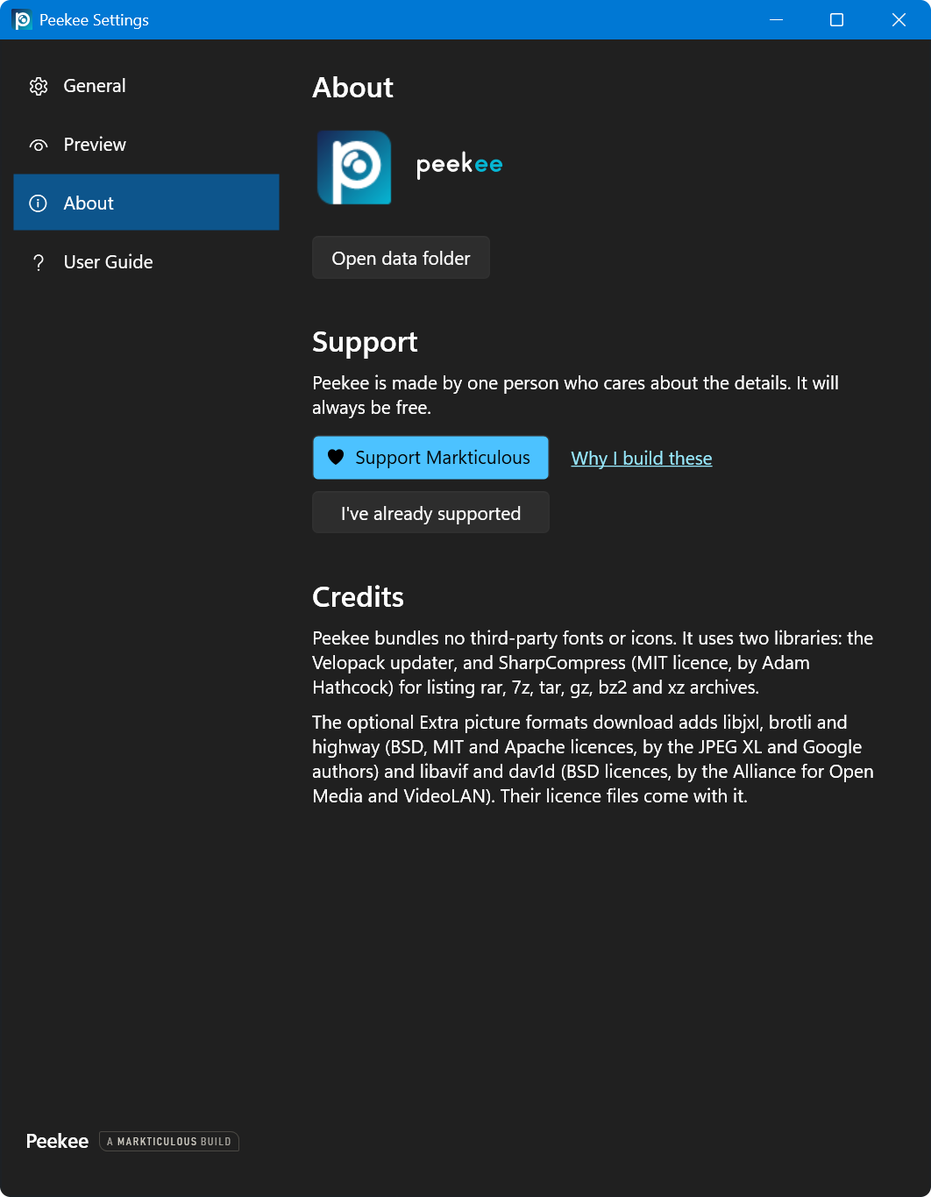
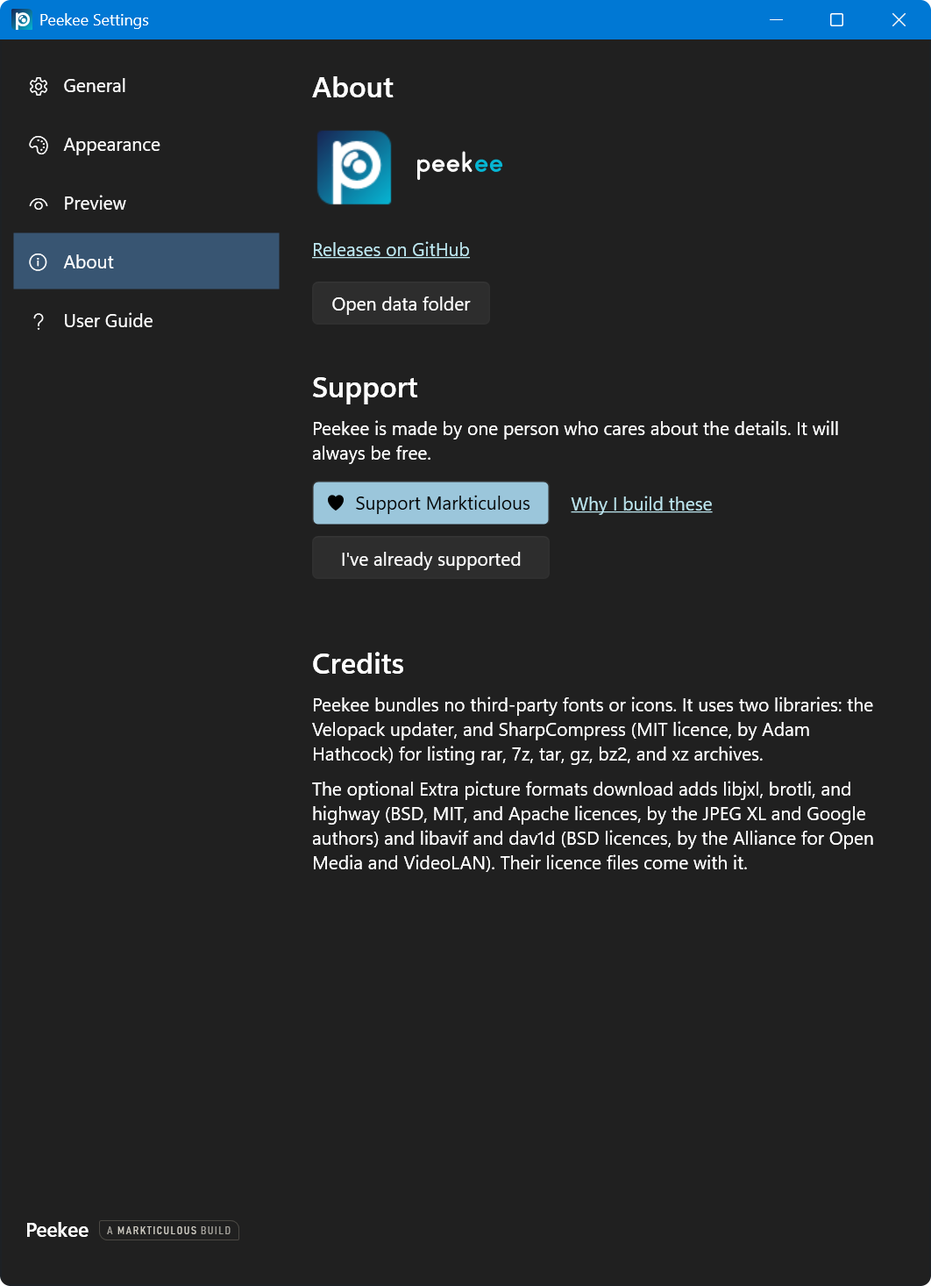
chore(guides): match the User Guides to the latest releases

diff --git a/guides/peekee/index.html b/guides/peekee/index.html
@@ -4,7 +4,7 @@
 <meta charset="utf-8">
 <meta name="viewport" content="width=device-width, initial-scale=1">
 <title>Peekee — User Guide</title>
-<link rel="icon" href="images/peekee-32.png">
+<link rel="icon" href="images/peekee-64.png">
 <meta name="color-scheme" content="light dark">
 <style>
 /* One file plus its pictures. No fonts to fetch, nothing that needs a
@@ -69,7 +69,7 @@ body {
   letter-spacing: .34em; text-transform: uppercase;
   color: var(--mute);
 }
-.wordmark .logo { flex: none; width: 20px; height: 20px; margin-right: -4px; }
+.wordmark .logo { flex: none; width: 28px; height: 28px; margin-right: -2px; }
 .wordmark-mark { flex: none; height: 24px; margin-top: 7px; width: auto; color: var(--ink); overflow: visible; }
 
 /* The Markticulous byline plate: hollow, hairline edge, two corners cropped square. */
@@ -78,12 +78,18 @@ body {
   display: inline-flex; align-items: center; gap: 4px;
   padding: 4px 8px;
   border-radius: 1px 6px 1px 6px;
-  box-shadow: inset 0 0 0 1px var(--rule);
+  box-shadow: inset 0 0 0 var(--hair) var(--rule);
   font-family: "Oswald", "Arial Narrow", "Helvetica Neue", sans-serif;
   font-size: 9px; font-weight: 500; letter-spacing: .12em; line-height: 1;
   white-space: nowrap; text-transform: uppercase;
 }
 .byline-by, .byline-suffix { opacity: .6; }
+/* The plate's edge is one screen pixel at every display scale (rule 20). */
+:root { --hair: 1px; }
+@media (min-resolution: 1.25dppx) { :root { --hair: .8px; } }
+@media (min-resolution: 1.5dppx) { :root { --hair: calc(2px / 3); } }
+@media (min-resolution: 1.75dppx) { :root { --hair: calc(4px / 7); } }
+@media (min-resolution: 2dppx) { :root { --hair: .5px; } }
 
 .ver {
   flex: none;
@@ -370,7 +376,7 @@ figcaption { margin-top: 10px; font-family: var(--sans); font-size: 13px; color:
 <body id="top">
 
 <p class="wordmark">
-  <img class="logo" src="images/peekee-32.png" alt="">
+  <img class="logo" src="images/peekee-64.png" alt="">
   <!-- The drawn Peekee wordmark (assets/logo/peekee-wordmark-*.svg), inline so "peek" follows the page's light or dark ink;
        "ee" keeps the brand cyan. The viewBox keeps the tail of the p; the margin keeps the letters where Backee's sit. -->
   <svg class="wordmark-mark" viewBox="0 15.9 129.5 44.2" role="img" aria-label="Peekee">
@@ -441,10 +447,10 @@ figcaption { margin-top: 10px; font-family: var(--sans); font-size: 13px; color:
         <dd>Opens the preview of the selected file, and closes it again. If nothing is selected, or Peekee cannot preview where you are, the key goes to the window as usual. On a shortcut (<code>.lnk</code>) it shows the file or folder the shortcut points to; a shortcut to a program shows its own card instead. You can choose <kbd>Ctrl</kbd> + <kbd>Space</kbd> or <kbd>Shift</kbd> + <kbd>Space</kbd> instead in <a href="#settings">Settings</a>.</dd>
         <dt>Esc</dt>
         <dd>Closes the preview. This works whichever key you chose to open it.</dd>
-        <dt>Arrow keys, Home, End, Page Up and Page Down</dt>
+        <dt>Arrow keys, Home, End, Page Up, and Page Down</dt>
         <dd>Move the selection in the window behind, as they always do, and the preview follows to the new file. You do not have to close it first.</dd>
         <dt>Left and Right on a file with pages</dt>
-        <dd>When the preview shows a file with several pages, such as a TIFF, an Illustrator file or a PDF drawn by Windows, <kbd>Right</kbd> turns to the next page and <kbd>Left</kbd> to the previous one. On the last page, <kbd>Right</kbd> goes back to the window behind, so in an Icons view it moves on to the next file; on the first page, <kbd>Left</kbd> does the same. PDFs shown by Edge and Office files shown by Office keep their own scrolling: use the mouse wheel there.</dd>
+        <dd>When the preview shows a file with several pages, such as a TIFF, an Illustrator file, or a PDF drawn by Windows, <kbd>Right</kbd> turns to the next page and <kbd>Left</kbd> to the previous one. On the last page, <kbd>Right</kbd> goes back to the window behind, so in an Icons view it moves on to the next file; on the first page, <kbd>Left</kbd> does the same. PDFs shown by Edge and Office files shown by Office keep their own scrolling: use the mouse wheel there.</dd>
         <dt>Several files selected</dt>
         <dd>The preview shows the focused file, and the header says how many are selected.</dd>
         <dt>Dragging an edge</dt>
@@ -458,22 +464,22 @@ figcaption { margin-top: 10px; font-family: var(--sans); font-size: 13px; color:
         <thead><tr><th>Button</th><th>What it does</th></tr></thead>
         <tbody>
           <tr><td>Open</td><td>Opens the file in the program Windows uses for it.</td></tr>
-          <tr><td>Pin</td><td>Not available yet. It is greyed out.</td></tr>
+          <tr><td>Pin</td><td>Not available yet. It is <span data-sp="grayed">grayed</span> out.</td></tr>
           <tr><td>Copy</td><td>Copies what you are looking at. A text file (up to the largest size set in Settings) is copied as text, a picture as a picture (a PDF or multi-page TIFF copies the page showing), and anything else, including a folder, as the file itself, so Paste in File Explorer copies it.</td></tr>
           <tr><td>Copy path</td><td>Copies the full path of the file as text.</td></tr>
           <tr><td>Close</td><td>Closes the preview.</td></tr>
           <tr><td>Previous page and Next page</td><td>Appear only for files with pages, such as a PDF or a TIFF with several pages. <kbd>Left</kbd> and <kbd>Right</kbd> do the same.</td></tr>
-          <tr><td>Fit page, Fit width, 100 percent, Zoom out and Zoom in</td><td>Appear for a PDF drawn by Windows. Zoom steps are 25, 50, 75, 100, 125, 150, 200, 300 and 400 percent. A button that would change nothing is greyed out.</td></tr>
+          <tr><td>Fit page, Fit width, 100 percent, Zoom out, and Zoom in</td><td>Appear for a PDF drawn by Windows. Zoom steps are 25, 50, 75, 100, 125, 150, 200, 300, and 400 percent. A button that would change nothing is <span data-sp="grayed">grayed</span> out.</td></tr>
         </tbody>
       </table>
-      <p>Open, Copy and Copy path are greyed out when no file is showing, and Copy is also greyed out for an item that could not be read.</p>
+      <p>Open, Copy, and Copy path are <span data-sp="grayed">grayed</span> out when no file is showing, and Copy is also <span data-sp="grayed">grayed</span> out for an item that could not be read.</p>
     </section>
 
     <section id="where">
       <h2 class="sec"><span class="n">03</span>Where Peekee works</h2>
       <dl class="defs">
         <dt>File Explorer</dt>
-        <dd>Every view: details, list, icons and tiles. Peekee reads the selection from Explorer and never changes anything.</dd>
+        <dd>Every view: details, list, icons, and tiles. Peekee reads the selection from Explorer and never changes anything.</dd>
         <dt>The Desktop</dt>
         <dd>Select an icon on the Desktop and press the key.</dd>
         <dt>Open and Save dialogs</dt>
@@ -490,33 +496,33 @@ figcaption { margin-top: 10px; font-family: var(--sans); font-size: 13px; color:
       <p>A preview opens at once and reads the file without changing it.</p>
       <dl class="defs">
         <dt>Images</dt>
-        <dd>PNG, JPG, GIF, BMP, WebP, TIFF and ICO, plus HEIC and AVIF where Windows has the codec installed. Amiga IFF pictures (<code>.iff</code>, <code>.ilbm</code>, <code>.lbm</code>, <code>.ham6</code>, <code>.ham8</code>, <code>.acbm</code>, <code>.rgb8</code>, <code>.rgbn</code>, including HAM and EHB, pictures with a palette for every line, Atari ST pictures, the true-colour RGB8 and RGBN kinds, and the PC <code>PBM</code> kind; a file that is cut short shows the part that is there) are drawn by Peekee itself; the footer says how many colours they use. Their pixel shape is not corrected, so a low-resolution Amiga picture can look narrower than it did on the Amiga. Photoshop files (<code>.psd</code> and the large-document <code>.psb</code>) show the merged picture saved in the file, in RGB, CMYK, gray, indexed or black and white at 8 or 16 bits; layers are not shown. If the file was saved without that picture, is over 16 megapixels or is in an unsupported mode, Peekee shows the small preview picture stored in the file when there is one, and the footer says "thumbnail only". A GIF plays, and the footer says how many frames it has, how fast it runs and how often it plays. A TIFF with several pages shows one page at a time, with page buttons in the header. The wheel zooms, dragging pans, and a double click fits the image to the window again. In <a href="#settings">Settings</a> you choose whether images open fitted to the window or at 100 percent, and what shows behind them.</dd>
+        <dd>PNG, JPG, GIF, BMP, WebP, TIFF, and ICO, plus HEIC and AVIF where Windows has the codec installed. Amiga IFF pictures (<code>.iff</code>, <code>.ilbm</code>, <code>.lbm</code>, <code>.ham6</code>, <code>.ham8</code>, <code>.acbm</code>, <code>.rgb8</code>, <code>.rgbn</code>, including HAM and EHB, pictures with a palette for every line, Atari ST pictures, the true-<span data-sp="color">color</span> RGB8 and RGBN kinds, and the PC <code>PBM</code> kind; a file that is cut short shows the part that is there) are drawn by Peekee itself; the footer says how many <span data-sp="colors">colors</span> they use. Their pixel shape is not corrected, so a low-resolution Amiga picture can look narrower than it did on the Amiga. Photoshop files (<code>.psd</code> and the large-document <code>.psb</code>) show the merged picture saved in the file, in RGB, CMYK, <span data-sp="gray">gray</span>, indexed, or black and white at 8 or 16 bits; layers are not shown. If the file was saved without that picture, is over 16 megapixels, or is in an unsupported mode, Peekee shows the small preview picture stored in the file when there is one, and the footer says "thumbnail only". A GIF plays, and the footer says how many frames it has, how fast it runs, and how often it plays. A TIFF with several pages shows one page at a time, with page buttons in the header. The wheel zooms, dragging pans, and a double click fits the image to the window again. In <a href="#settings">Settings</a> you choose whether images open fitted to the window or at 100 percent, and what shows behind them.</dd>
         <dt>Text and code</dt>
-        <dd>Plain text, logs, configuration files and source code, in a monospace font with line numbers. Long lines scroll sideways instead of wrapping. A file larger than the limit in Settings (2 MB to start with) shows its first part, with a note in the footer.</dd>
+        <dd>Plain text, logs, configuration files, and source code, in a monospace font with line numbers. Long lines scroll sideways instead of wrapping. A file larger than the limit in Settings (2 MB to start with) shows its first part, with a note in the footer.</dd>
         <dt>CSV and TSV</dt>
         <dd>A table of the first 5,000 rows. The first row becomes the column headers when the file seems to have one. Otherwise the columns are lettered.</dd>
         <dt>JSON</dt>
         <dd>Laid out with indents so it is easy to read. A file that is not valid JSON shows as plain text.</dd>
         <dt>Markdown</dt>
-        <dd>Shown as a formatted document with headings, lists, tables, code and the images that sit beside the file. Links are drawn as links but cannot be clicked.</dd>
+        <dd>Shown as a formatted document with headings, lists, tables, code, and the images that sit beside the file. Links are drawn as links but cannot be clicked.</dd>
         <dt>SVG</dt>
         <dd>Drawn and fitted to the window. Turn the mouse wheel to zoom about the pointer, drag to move around when zoomed in, and double click or press 0 to fit the window again. A drawing that uses features Peekee does not support, such as CSS classes, may look different from the way a browser shows it.</dd>
         <dt>Fonts</dt>
-        <dd>TTF, OTF and TTC files show as a type specimen: the family and style name, the alphabet, the digits and a sentence at three sizes. The font is not installed.</dd>
+        <dd>TTF, OTF, and TTC files show as a type specimen: the family and style name, the alphabet, the digits, and a sentence at three sizes. The font is not installed.</dd>
         <dt>Folders</dt>
         <dd>How many items are inside and how big they are in all (counted in the background), with the five newest items.</dd>
         <dt>Archives</dt>
-        <dd>The contents are listed without unpacking anything: zip, RAR, 7z, ISO, tar (also tar.gz, tgz, tar.bz2, tbz2, tar.xz and txz), gz, bz2, xz, CAB and LHA (lzh, lha). Folders inside show as a tree: click a folder row to open or close it. Name, Size and Modified have their own columns. An archive with a password, or one that is damaged, shows the information card instead.</dd>
+        <dd>The contents are listed without unpacking anything: zip, RAR, 7z, ISO, tar (also tar.gz, tgz, tar.bz2, tbz2, tar.xz, and txz), gz, bz2, xz, CAB, and LHA (lzh, lha). Folders inside show as a tree: click a folder row to open or close it. Name, Size, and Modified have their own columns. An archive with a password, or one that is damaged, shows the information card instead.</dd>
         <dt>WordPerfect</dt>
-        <dd>WordPerfect documents (<code>.wpd</code>, <code>.wp</code>, <code>.wp5</code>, <code>.wp6</code> and <code>.wp7</code>, from WordPerfect 5 and later) show their text only, in the same plain view as a text file, and the footer gives the word count. Fonts, layout, tables, pictures and footnotes are not shown, and a few special characters may appear as a question mark. A file that is password protected, or from which no text can be read, shows the information card.</dd>
+        <dd>WordPerfect documents (<code>.wpd</code>, <code>.wp</code>, <code>.wp5</code>, <code>.wp6</code>, and <code>.wp7</code>, from WordPerfect 5 and later) show their text only, in the same plain view as a text file, and the footer gives the word count. Fonts, layout, tables, pictures, and footnotes are not shown, and a few special characters may appear as a question mark. A file that is password protected, or from which no text can be read, shows the information card.</dd>
         <dt>Adobe Illustrator</dt>
         <dd>An <code>.ai</code> or <code>.ait</code> file saved with the PDF compatible option (the default for many years) shows as a PDF does, one page at a time, with the page buttons and zoom buttons. Peekee always uses the Windows PDF renderer for these, never the Edge previewer. An older file saved without that option shows the information card.</dd>
         <dt>PDF</dt>
-        <dd>One page at a time. Use the mouse wheel or the arrow buttons in the header to change page. In the pages drawn by Windows, the header also has Fit page (the default), Fit width, 100 percent, Zoom out and Zoom in, and the footer readout shows the page and the zoom, for example "Page 2 of 9 · 125%". With the default setting, <strong>Interactive</strong>, Peekee tries three ways in this order: the Microsoft Edge PDF previewer, another PDF previewer you have installed, and the PDF renderer built into Windows. With <strong>As images</strong> it uses the Windows renderer at once, which is faster and lighter but has no links, forms or text selection. Hold <kbd>Ctrl</kbd> and turn the wheel to zoom the built-in renderer, and double-click to return to the whole page.</dd>
-        <dt>Word, Excel, PowerPoint and email</dt>
-        <dd>These show through the preview component that Windows or Office installs, the same one File Explorer uses in its preview pane. Peekee bundles nothing for them. If no component is installed for a type, you get the information card. A file that came from the internet is not given to these components, and a PDF from the internet is drawn by the Windows renderer, until you right-click the file, choose Properties and tick Unblock.</dd>
+        <dd>One page at a time. Use the mouse wheel or the arrow buttons in the header to change page. In the pages drawn by Windows, the header also has Fit page (the default), Fit width, 100 percent, Zoom out, and Zoom in, and the footer readout shows the page and the zoom, for example "Page 2 of 9 · 125%". With the default setting, <strong>Interactive</strong>, Peekee tries three ways in this order: the Microsoft Edge PDF previewer, another PDF previewer you have installed, and the PDF renderer built into Windows. With <strong>As images</strong> it uses the Windows renderer at once, which is faster and lighter but has no links, forms, or text selection. Hold <kbd>Ctrl</kbd> and turn the wheel to zoom the built-in renderer, and double-click to return to the whole page.</dd>
+        <dt>Word, Excel, PowerPoint, and email</dt>
+        <dd>These show through the preview component that Windows or Office installs, the same one File Explorer uses in its preview pane. Peekee bundles nothing for them. If no component is installed for a type, you get the information card. A file that came from the internet is not given to these components, and a PDF from the internet is drawn by the Windows renderer, until you right-click the file, choose Properties, and tick Unblock.</dd>
         <dt>Anything else</dt>
-        <dd>The information card: the name, type, size and date of the file.</dd>
+        <dd>The information card: the name, type, size, and date of the file.</dd>
       </dl>
     </section>
 
@@ -525,9 +531,11 @@ figcaption { margin-top: 10px; font-family: var(--sans); font-size: 13px; color:
       <p>Open Settings from the tray menu. Changes apply at once. There is no Save button. The list on the left shows <strong>Peekee</strong> with the Markticulous plate and the version at the bottom, on every page. Click the plate to open the About page.</p>
       <dl class="defs">
         <dt>General</dt>
-        <dd><strong>Open the preview with</strong> is <strong>Space</strong>, <strong>Ctrl + Space</strong> or <strong>Shift + Space</strong>. Space also closes the preview, and Esc always does. If another Markticulous app already uses the combination, a warning under the setting says so; you can still choose it. <strong>Work in Open and Save dialogs</strong> lets Peekee preview inside the file dialogs of other programs. <strong>Start with Windows</strong> opens Peekee in the tray when you sign in. <strong>Check for updates automatically</strong> lets Peekee look for a newer version (see <a href="#privacy">Your privacy</a>), and <strong>Check now</strong> looks straight away. <strong>Restart to update</strong> is greyed out until an update has been downloaded.</dd>
+        <dd><strong>Open the preview with</strong> is <strong>Space</strong>, <strong>Ctrl + Space</strong>, or <strong>Shift + Space</strong>. Space also closes the preview, and Esc always does. If another Markticulous app already uses the combination, a warning under the setting says so; you can still choose it. <strong>Work in Open and Save dialogs</strong> lets Peekee preview inside the file dialogs of other programs. <strong>Start with Windows</strong> opens Peekee in the tray when you sign in. It is on from the first run, and Peekee says so once in a Windows notification. <strong>Check for updates automatically</strong> lets Peekee look for a newer version (see <a href="#privacy">Your privacy</a>), and <strong>Check now</strong> looks straight away. <strong>Restart to update</strong> is <span data-sp="grayed">grayed</span> out until an update has been downloaded.</dd>
+        <dt>Appearance</dt>
+        <dd><strong>Theme</strong> is <strong>Follow Windows</strong> (the default), <strong>Light</strong>, or <strong>Dark</strong>. It applies at once to the preview and to Settings, and Follow Windows changes with Windows while Peekee runs.</dd>
         <dt>Preview</dt>
-        <dd><strong>Window size</strong> sets how much of the screen a preview takes at first, from 30 to 90 percent. <strong>Remember the size I drag the window to</strong> keeps the size you chose by dragging an edge, and <strong>Forget the remembered size</strong> goes back to the setting above. <strong>Show the line at the bottom</strong> turns the footer (type, size, date) on or off. <strong>Images open</strong> is <strong>Fitted to the window</strong> or <strong>At 100 percent</strong>. <strong>Background behind pictures</strong> is the colour that fills the preview behind pictures, SVG files and the pages drawn by the Windows PDF renderer. Choose the window colour (light or dark with the theme, and the default), white, light grey, neutral grey (18 percent), dark grey or black. <strong>Show a checkerboard behind transparent parts</strong> (on by default) puts a checkerboard under the picture itself, so transparent areas show; with it off they show the background colour. An SVG with the checkerboard off and the window colour chosen keeps an automatic light or dark card. <strong>PDF files</strong> is <strong>Interactive</strong> (Edge or an installed previewer first) or <strong>As images</strong> (pages drawn by Windows). Under <strong>Text</strong>, <strong>Font size</strong> and <strong>Largest file shown</strong> (1, 2, 5, 10 or 20 MB) control text and code files. Larger files show their first part only. <strong>Extra picture formats</strong> adds Peekee's own reader for JPEG XL and AVIF pictures, which Windows cannot open without an extension from the Microsoft Store. Click <strong>Add</strong> to download it (1.4 MB); nothing is downloaded until you do. <strong>Remove</strong> deletes it again. Peekee checks the download against a fingerprint it carries and does not use a file that does not match.</dd>
+        <dd><strong>Window size</strong> sets how much of the screen a preview takes at first, from 30 to 90 percent. <strong>Remember the size I drag the window to</strong> keeps the size you chose by dragging an edge, and <strong>Forget the remembered size</strong> goes back to the setting above. <strong>Show the line at the bottom</strong> turns the footer (type, size, date) on or off. <strong>Images open</strong> is <strong>Fitted to the window</strong> or <strong>At 100 percent</strong>. <strong>Background behind pictures</strong> is the <span data-sp="color">color</span> that fills the preview behind pictures, SVG files, and the pages drawn by the Windows PDF renderer. Choose the window <span data-sp="color">color</span> (light or dark with the theme, and the default), white, light <span data-sp="gray">gray</span>, neutral <span data-sp="gray">gray</span> (18 percent), dark <span data-sp="gray">gray</span>, or black. <strong>Show a checkerboard behind transparent parts</strong> (on by default) puts a checkerboard under the picture itself, so transparent areas show; with it off they show the background <span data-sp="color">color</span>. An SVG with the checkerboard off and the window <span data-sp="color">color</span> chosen keeps an automatic light or dark card. <strong>PDF files</strong> is <strong>Interactive</strong> (Edge or an installed previewer first) or <strong>As images</strong> (pages drawn by Windows). Under <strong>Text</strong>, <strong>Font size</strong> and <strong>Largest file shown</strong> (1, 2, 5, 10, or 20 MB) control text and code files. Larger files show their first part only. <strong>Extra picture formats</strong> adds Peekee's own reader for JPEG XL and AVIF pictures, which Windows cannot open without an extension from the Microsoft Store. Click <strong>Add</strong> to download it (1.4 MB); nothing is downloaded until you do. <strong>Remove</strong> deletes it again. Peekee checks the download against a fingerprint it carries and does not use a file that does not match.</dd>
         <dt>About</dt>
         <dd>The Peekee name drawn as a wordmark beside the app icon, the version, <strong>Open data folder</strong> (where Peekee keeps its settings and downloaded extras, <code>%APPDATA%\Peekee</code>), the support section (see <a href="#support">Support Markticulous</a>) and the credits.</dd>
         <dt>User Guide</dt>
@@ -543,8 +551,6 @@ figcaption { margin-top: 10px; font-family: var(--sans); font-size: 13px; color:
         <dd>Appears at the top once an update has been downloaded. Choosing it restarts Peekee on the new version.</dd>
         <dt>Settings&hellip;</dt>
         <dd>Opens the Settings window.</dd>
-        <dt>Start with Windows</dt>
-        <dd>A tick means Peekee starts when you sign in. Click it to turn this on or off. It is the same setting as on the General page.</dd>
         <dt>&hearts; Support Markticulous</dt>
         <dd>Appears only after you have used Peekee for a while (see <a href="#support">Support Markticulous</a>).</dd>
         <dt>Quit</dt>
@@ -576,7 +582,7 @@ figcaption { margin-top: 10px; font-family: var(--sans); font-size: 13px; color:
     <section id="privacy">
       <h2 class="sec"><span class="n">08</span>Your privacy</h2>
       <p>Peekee works only on your PC. It reads the file you select, shows it, and sends nothing about it anywhere. It has no ads and no tracking.</p>
-      <p>The only things that use the internet are ones you start or turn on: the update check, which asks GitHub whether a newer version exists when <strong>Check for updates automatically</strong> is on, and the links to Ko-fi and the support page, which open in your browser only when you click them. If you tell Peekee you have supported Markticulous and use the check, it sends a scrambled version of your email (a hash), and nothing else (see <a href="#support">Support Markticulous</a>).</p>
+      <p>The only things that use the internet are ones you start or turn on: the update check, which asks GitHub whether a newer version exists when <strong>Check for updates automatically</strong> is on, and the links to Ko-fi and the support page, which open in your browser only when you click them. If you tell Peekee you have supported Markticulous and use the check, it sends a scrambled version of your email (a hash), and nothing else (see <a href="#support">Support Markticulous</a>). When the check finds your email, Peekee also writes a small shared file, <code>%LocalAppData%\Markticulous\supporter.json</code>, that holds only that you are a supporter, the date of the check, and the supporter mark you chose (never your email), so that the other Markticulous apps on your PC can thank you without asking again.</p>
     </section>
 
     <section id="support">
@@ -591,7 +597,7 @@ figcaption { margin-top: 10px; font-family: var(--sans); font-size: 13px; color:
     <section id="install">
       <h2 class="sec"><span class="n">10</span>Installing and updating</h2>
       <h3>Installing</h3>
-      <p>Run the Peekee setup. It installs for your own account and does not need an administrator. Peekee then starts and puts its icon in the tray. Turn on <strong>Start with Windows</strong> in Settings if you want it ready every time.</p>
+      <p>Run the Peekee setup. It installs for your own account and does not need an administrator. Peekee then starts and puts its icon in the tray. It also starts with Windows from then on, and a Windows notification says so once; you can turn <strong>Start with Windows</strong> off in Settings.</p>
       <h3>Updates</h3>
       <p>When <strong>Check for updates automatically</strong> is on, Peekee checks about half a minute after it starts, and then once a day. A newer version downloads in the background, and <strong>Restart to update</strong> appears in the tray menu and on the General page. An orange dot shows on the tray icon and beside the button: it breathes while the update downloads and blinks once it is ready. Nothing restarts until you choose it. <strong>Check now</strong> looks straight away. The version you have is on the About page.</p>
       <h3>Uninstalling</h3>
@@ -603,8 +609,8 @@ figcaption { margin-top: 10px; font-family: var(--sans); font-size: 13px; color:
       <dl class="defs">
         <dt>Space does nothing</dt>
         <dd>Check that a file, not empty space, is selected, and that the file list has the keyboard focus: click the file once. Check that Peekee is running (look for its icon in the tray) and that the key in Settings is the one you are pressing. In an Open or Save dialog, make sure <strong>Work in Open and Save dialogs</strong> is on, and see <a href="#where">Where Peekee works</a> about older dialogs.</dd>
-        <dt>I see a card with the name, type and size instead of the file</dt>
-        <dd>Peekee has no way to draw that kind of file. For Word, Excel, PowerPoint and email files it means no preview component is installed for that type. Press the Open button in the header to open the file in its own program.</dd>
+        <dt>I see a card with the name, type, and size instead of the file</dt>
+        <dd>Peekee has no way to draw that kind of file. For Word, Excel, PowerPoint, and email files it means no preview component is installed for that type. Press the Open button in the header to open the file in its own program.</dd>
         <dt>A PDF looks different from one in Edge</dt>
         <dd>If neither the Edge previewer nor another PDF previewer is available, Peekee falls back to the renderer built into Windows. It shows the pages as pictures, one at a time.</dd>
         <dt>A text file is cut short</dt>
@@ -618,21 +624,21 @@ figcaption { margin-top: 10px; font-family: var(--sans); font-size: 13px; color:
 
     <section id="types">
       <h2 class="sec"><span class="n">12</span>File types Peekee can show</h2>
-      <p>Every type Peekee recognises, grouped. Peekee also looks inside a file whose name gives no clue, so a picture or text file with an unusual extension is usually still shown.</p>
+      <p>Every type Peekee <span data-sp="recognizes">recognizes</span>, grouped. Peekee also looks inside a file whose name gives no clue, so a picture or text file with an unusual extension is usually still shown.</p>
       <table class="ref types">
         <thead><tr><th>Kind</th><th>Extensions</th><th>How it is shown</th></tr></thead>
         <tbody>
           <tr><td>Pictures</td><td><code>.png .jpg .jpeg .jpe .jfif .gif .webp .bmp .dib .ico .cur .tif .tiff .jxr .wdp .dds</code></td><td>Drawn by Windows. GIFs play; TIFFs with several pages show one page at a time.</td></tr>
           <tr><td>Pictures with a codec</td><td>.heic .heif and others</td><td>Shown when Windows has the codec installed (for example the HEIF extension from the Microsoft Store).</td></tr>
           <tr><td>JPEG XL and AVIF</td><td>.jxl .avif</td><td>Shown when Windows has the codec, or after you add <strong>Extra picture formats</strong> in Settings.</td></tr>
-          <tr><td>Photoshop</td><td><code>.psd .psb</code></td><td>The flattened image Photoshop stores in the file; RGB, grey, CMYK, indexed and 1-bit, 8 and 16 bits. No layers.</td></tr>
+          <tr><td>Photoshop</td><td><code>.psd .psb</code></td><td>The flattened image Photoshop stores in the file; RGB, <span data-sp="gray">gray</span>, CMYK, indexed, and 1-bit, 8 and 16 bits. No layers.</td></tr>
           <tr><td>Illustrator</td><td><code>.ai .ait</code></td><td>Files saved with PDF compatibility (the default since Illustrator CS) open in the PDF view.</td></tr>
-          <tr><td>Amiga and Atari pictures</td><td><code>.iff .ilbm .lbm .ham6 .ham8 .acbm .rgb8 .rgbn</code></td><td>Drawn by Peekee itself, including HAM, half-brite and pictures that change palette line by line.</td></tr>
-          <tr><td>SVG</td><td><code>.svg .svgz</code></td><td>Drawn by Peekee: shapes, paths, fills, strokes and gradients. Text and filters are left out. Zoom with the wheel and drag to pan.</td></tr>
+          <tr><td>Amiga and Atari pictures</td><td><code>.iff .ilbm .lbm .ham6 .ham8 .acbm .rgb8 .rgbn</code></td><td>Drawn by Peekee itself, including HAM, half-brite, and pictures that change palette line by line.</td></tr>
+          <tr><td>SVG</td><td><code>.svg .svgz</code></td><td>Drawn by Peekee: shapes, paths, fills, strokes, and gradients. Text and filters are left out. Zoom with the wheel and drag to pan.</td></tr>
           <tr><td>PDF</td><td><code>.pdf</code></td><td>Edge's previewer or your PDF previewer first, or the pages drawn by Windows, with zoom and page buttons.</td></tr>
           <tr><td>Office</td><td>.docx .xlsx .pptx and older Office files</td><td>Through the previewers Office installs. Without Office, the information card.</td></tr>
           <tr><td>Email</td><td><code>.eml .msg</code></td><td>Through the previewer Outlook or Windows installs, when there is one.</td></tr>
-          <tr><td>OpenDocument text</td><td><code>.odt</code></td><td>The text, headings and lists with a word count, read by Peekee, when no other previewer is installed for it.</td></tr>
+          <tr><td>OpenDocument text</td><td><code>.odt</code></td><td>The text, headings, and lists with a word count, read by Peekee, when no other previewer is installed for it.</td></tr>
           <tr><td>Shortcuts</td><td><code>.lnk</code></td><td>The file or folder the shortcut points to, shown as if you had selected it. A shortcut to a program or a web address shows its own card, with its own icon and what it starts: the target, its arguments, and for a Chrome or Edge web app (such as Google Keep) that it opens through the browser.</td></tr>
           <tr><td>Web links</td><td><code>.url .website</code></td><td>The address the link opens, large, with its host name. Nothing is opened or fetched.</td></tr>
           <tr><td>WordPerfect</td><td><code>.wpd .wp .wp5 .wp6 .wp7</code></td><td>The text only, read by Peekee, for WordPerfect 5 and 6 onwards.</td></tr>
@@ -642,8 +648,8 @@ figcaption { margin-top: 10px; font-family: var(--sans); font-size: 13px; color:
           <tr><td>Text and code</td><td><code>.txt .log .ini .cfg .conf .config .xml .yaml .yml .toml .html .htm .css .scss .js .ts .tsx .jsx .vue .py .ps1 .psm1 .bat .cmd .sh .sql .cs .vb .xaml .razor .cshtml .c .h .cpp .hpp .java .kt .swift .go .rs .rb .php .lua .tex .reg .srt .nfo .diff .patch .csproj .sln .slnx .props .targets .resx .editorconfig .gitignore .jsonc .json5 .ndjson .jsonl .env .psd1 .vbs .ahk .inf .properties .gradle .dart .r .pl .scala .clj .ex .exs .hs .fs .fsx .asm .bib .ass .sub .vtt .ics .vcf .m3u .m3u8 .cue .cmake</code>, and files named Makefile or Dockerfile</td><td>With line numbers. Any other file that turns out to be text is shown the same way.</td></tr>
           <tr><td>Archives</td><td><code>.zip .7z .rar .tar .tar.gz .tgz .tar.bz2 .tar.xz .gz .bz2 .xz .iso .cab .lzh .lha .jar .nupkg .vsix .epub .apk .appx .msix .whl .xpi</code></td><td>The list of what is inside, with sizes and dates. Nothing is unpacked.</td></tr>
           <tr><td>Fonts</td><td><code>.ttf .otf .ttc</code></td><td>A sample of the font at three sizes.</td></tr>
-          <tr><td>Folders</td><td>any folder</td><td>How many items it holds, its total size and the five newest items.</td></tr>
-          <tr><td>Everything else</td><td>any file</td><td>A card with the icon, type, size and dates. Any previewer installed on your PC for that type is used first.</td></tr>
+          <tr><td>Folders</td><td>any folder</td><td>How many items it holds, its total size, and the five newest items.</td></tr>
+          <tr><td>Everything else</td><td>any file</td><td>A card with the icon, type, size, and dates. Any previewer installed on your PC for that type is used first.</td></tr>
         </tbody>
       </table>
     </section>
@@ -655,7 +661,7 @@ figcaption { margin-top: 10px; font-family: var(--sans); font-size: 13px; color:
 <footer class="colophon">
   <div class="colophon-in">
     <span>Peekee, a file preview for Windows.</span>
-    <span class="tm">Microsoft, Windows, Office and Edge are trademarks of the Microsoft group of companies. Other names are trademarks of their owners. Peekee is not made, endorsed or supported by Microsoft.</span>
+    <span class="tm">Microsoft, Windows, Office, and Edge are trademarks of the Microsoft group of companies. Other names are trademarks of their owners. Peekee is not made, endorsed, or supported by Microsoft.</span>
     <a href="https://markticulous.github.io/support/?app=peekee" target="_blank" rel="noopener">Support Markticulous</a>
     <a class="totop" href="#top">Back to top ↑</a>
   </div>
@@ -668,6 +674,40 @@ figcaption { margin-top: 10px; font-family: var(--sans); font-size: 13px; color:
   </svg>
 </button>
 
+<script>
+/* Regional spelling (brand bible rule 17). Peekee opens this page with ?region=CA, UK or US; the words marked data-sp are
+   swapped to that region's spelling. Opened without a region (the copy on the web), the browser language chooses with the
+   same rule as the app's Spelling.RegionOf: -CA is Canada, any other en- except en-US is UK, anything else is US. */
+(function () {
+  var words = { /* key (the US spelling): US, UK, Canada */
+    color: ['color', 'colour', 'colour'],
+    colors: ['colors', 'colours', 'colours'],
+    centered: ['centered', 'centred', 'centred'],
+    center: ['center', 'centre', 'centre'],
+    license: ['license', 'licence', 'licence'],
+    gray: ['gray', 'grey', 'grey'],
+    grayed: ['grayed', 'greyed', 'greyed'],
+    behavior: ['behavior', 'behaviour', 'behaviour'],
+    organize: ['organize', 'organise', 'organize'],
+    customize: ['customize', 'customise', 'customize'],
+    favorite: ['favorite', 'favourite', 'favourite'],
+    recognizes: ['recognizes', 'recognises', 'recognizes']
+  };
+  var m = /[?&]region=(CA|UK|US)/i.exec(location.search), region;
+  if (m) region = m[1].toUpperCase();
+  else {
+    var lang = (navigator.languages && navigator.languages[0]) || navigator.language || '';
+    region = /-CA$/i.test(lang) ? 'CA' : (/^en-/i.test(lang) && !/-US$/i.test(lang)) ? 'UK' : 'US';
+  }
+  var col = region === 'UK' ? 1 : region === 'CA' ? 2 : 0;
+  Array.prototype.forEach.call(document.querySelectorAll('[data-sp]'), function (el) {
+    var row = words[el.getAttribute('data-sp')];
+    if (!row) return;
+    var w = row[col];
+    el.textContent = /^[A-Z]/.test(el.textContent) ? w.charAt(0).toUpperCase() + w.slice(1) : w;
+  });
+})();
+</script>
 <script src="version.js"></script>
 <script>
 /* The version chip. The app build writes version.js beside this page (it is committed, so the

diff --git a/guides/peekee/version.js b/guides/peekee/version.js
@@ -1,1 +1,1 @@
-window.PEEKEE_VERSION = '1.1.3';
+window.PEEKEE_VERSION = '1.2.0';
